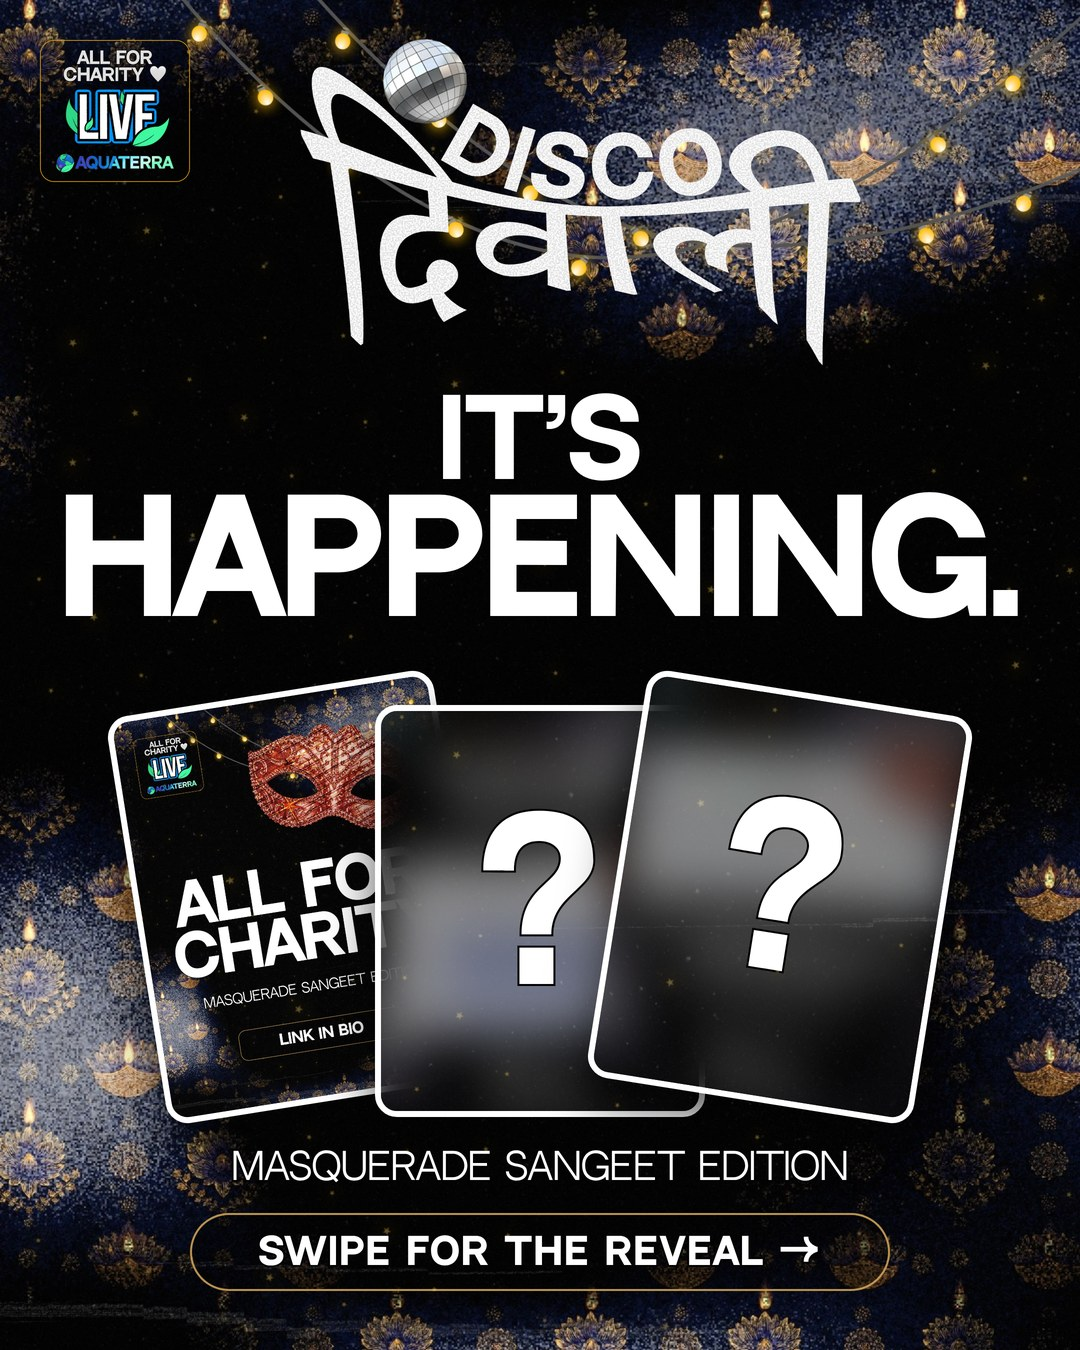
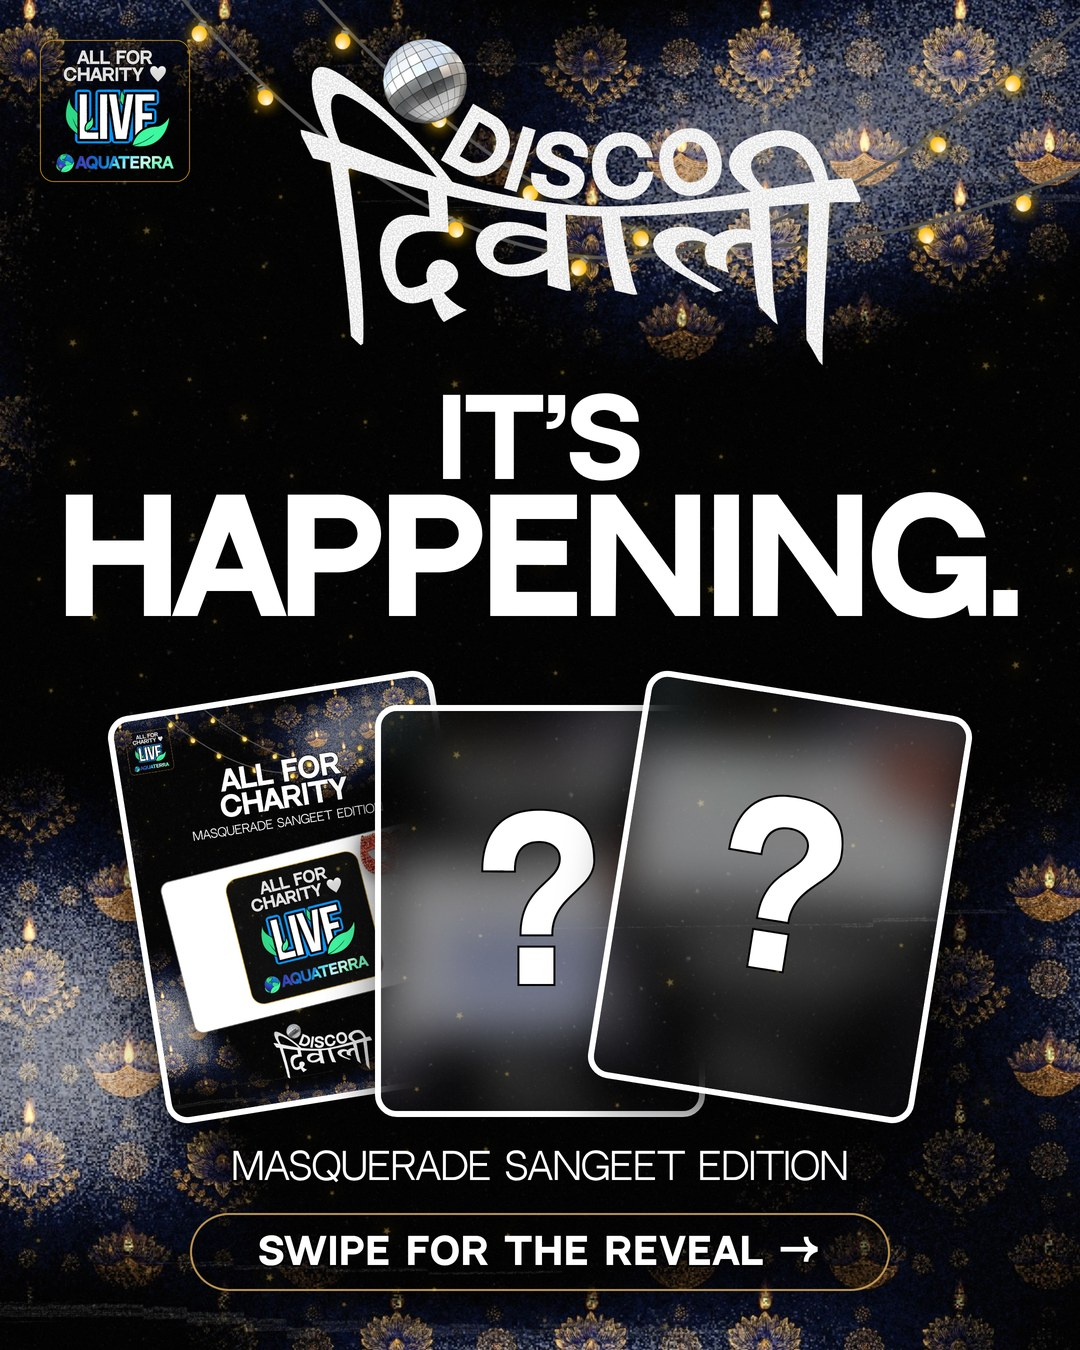
Disco Diwali: ALL FOR CHARITY poster rebuilt to match the date and location posters; cover uses it
Claude-Session: https://claude.ai/code/session_01SvqxkoTEENgXPyjFifmnqB

Changed region(s): [[0.1222, 0.5289, 0.3667, 0.8089]]

diff --git a/scratchpad/dd_charity.py b/scratchpad/dd_charity.py
@@ -1,0 +1,80 @@
+"""DISCO DIWALI ALL FOR CHARITY poster, feed (1080x1350) and story (1080x1920), rebuilt to MATCH the carousel's date and location posters.
+
+Shared skeleton (same numbers as scratchpad/dd_date_reveal.py and dd_location_reveal.py): diya ground with string lights, a small LIVE badge top left, a headline
+block, a big white rounded card tilted -5 degrees with the copper mask lying across its top-right corner, the DISCO DIWALI lockup (with its ball) as a footer mark,
+no pill, no link. Here the headline is ALL FOR CHARITY, the line under it is the edition, and the card holds the LIVE badge art (ALL FOR CHARITY / LIVE / AQUATERRA)
+large, as the visual. Facts: only "All for charity" (the badge) and "Masquerade Sangeet Edition". No date, venue, price or figure (the cover and slides own the rest).
+Run: PYTHONIOENCODING=utf-8 python scratchpad/dd_charity.py"""
+import asyncio, importlib.util, math, os, sys
+ROOT = os.path.dirname(os.path.dirname(os.path.abspath(__file__)))
+sys.path.insert(0, os.path.join(ROOT, "engine"))
+spec = importlib.util.spec_from_file_location("discodiwali", os.path.join(ROOT, "engine", "discodiwali.py"))
+dd = importlib.util.module_from_spec(spec); spec.loader.exec_module(dd)
+B = dd.B
+W = 1080
+OUT = os.path.join(ROOT, "out", "discodiwali", "charity")
+STROKE = "color:#fff;-webkit-text-stroke:4px #000;paint-order:stroke fill;"
+CARD_W, CARD_H, TILT = 880, 520, -5
+
+
+def rot_box(cx, cy, w, h, deg):
+    a = math.radians(abs(deg)); bw = w * math.cos(a) + h * math.sin(a); bh = w * math.sin(a) + h * math.cos(a)
+    return (round(cx - bw / 2), round(cy - bh / 2), round(bw), round(bh))
+
+
+def ground(H):
+    plate = lambda top, extra="": (f'<img data-tag="plate" src="{dd.uri("bg_diya_portrait.jpg")}" style="position:absolute;left:0;top:{top}px;width:{W}px;height:1350px;'
+                                   f'object-fit:cover;z-index:1;{extra}">')
+    p = '<div data-tag="plate" style="position:absolute;inset:0;z-index:0;background:#000"></div>' + plate(0)
+    if H > 1350:
+        p += plate(H - 1350, "transform:scaleY(-1);-webkit-mask-image:linear-gradient(to top,transparent 0%,#000 45%);mask-image:linear-gradient(to top,transparent 0%,#000 45%);")
+    p += (f'<img data-tag="lights" src="{dd.uri("string_lights.png")}" style="position:absolute;left:160px;top:-53px;width:1045px;z-index:5">'
+          f'<img data-tag="plate" src="{dd.uri("sparkles.png")}" style="position:absolute;inset:0;width:{W}px;height:{H}px;object-fit:cover;z-index:30;mix-blend-mode:screen;opacity:.55;pointer-events:none">'
+          f'<img data-tag="plate" src="{dd.uri("grain.png")}" style="position:absolute;inset:0;width:{W}px;height:{H}px;object-fit:cover;z-index:31;mix-blend-mode:screen;opacity:.35;pointer-events:none">')
+    return p
+
+
+def poster(H):
+    story = H > 1350
+    parts, els = [ground(H)], []
+    bx, by, bw = 40, (210 if story else 40), 150
+    parts.append(f'<img data-tag="badge" src="{dd.uri("live_badge.png")}" style="position:absolute;left:{bx}px;top:{by}px;width:{bw}px;z-index:20">'); els.append(("badge", bx, by, bw, round(bw * 1005 / 1061)))
+    size = 112 if story else 92
+    hy = 430 if story else 205
+    def line(tag, txt, top, fsize, weight, h, extra=""):
+        parts.append(f'<div data-tag="{tag}" style="position:absolute;left:0;width:{W}px;top:{top}px;text-align:center;font-family:var(--d);font-weight:{weight};font-size:{fsize}px;line-height:1;'
+                     f'text-transform:uppercase;white-space:nowrap;{STROKE}{extra}z-index:20">{txt}</div>'); els.append((tag, 70, top, 940, h))
+    line("head1", "All for", hy, size, 700, size)
+    line("head2", "charity", hy + round(size * .96), size, 700, size)
+    sy = hy + round(size * .96) * 2 + 20
+    line("sub", "Masquerade Sangeet Edition", sy, 38, 400, 40)
+    # the card: white, tilted, holding the LIVE badge art large and centred
+    ctop = 800 if story else 520
+    cleft = (W - CARD_W) // 2
+    bw2 = 460; bh2 = round(bw2 * 1005 / 1061)                # the badge art is semi-transparent over black: on a white card it washes to grey, so it sits on an OPAQUE black tile
+    inner = (f'<div style="position:absolute;left:{(CARD_W - bw2) // 2}px;top:{(CARD_H - bh2) // 2}px;width:{bw2}px;height:{bh2}px;background:#0a0a0a;border-radius:44px;overflow:hidden">'
+             f'<img src="{dd.uri("live_badge.png")}" style="width:{bw2}px;display:block"></div>')
+    parts.append(f'<div data-tag="card" style="position:absolute;left:{cleft}px;top:{ctop}px;width:{CARD_W}px;height:{CARD_H}px;border-radius:30px;overflow:hidden;background:#fff;z-index:10;'
+                 f'transform:rotate({TILT}deg);box-shadow:0 36px 70px rgba(0,0,0,.6),0 0 0 3px rgba(255,255,255,.55)">{inner}</div>')
+    els.append(("card",) + rot_box(cleft + CARD_W / 2, ctop + CARD_H / 2, CARD_W, CARD_H, TILT))
+    mw = 330; mx, my = 730, ctop - 62
+    parts.append(f'<img data-tag="mask" src="{dd.uri("mask_copper.png")}" style="position:absolute;left:{mx}px;top:{my}px;width:{mw}px;z-index:12;transform:rotate(10deg);'
+                 f'filter:drop-shadow(0 12px 26px rgba(0,0,0,.65))">'); els.append(("mask", mx + 30, my + 40, 276, 196))
+    vw = 400 if story else 330
+    t = vw / 1717; vh = round(991 * t); vx = (W - vw) // 2
+    vy = 1420 if story else H - 64 - vh
+    parts.append(f'<img data-tag="title" src="{dd.uri("title_lockup.png")}" style="position:absolute;left:{round(vx - 265 * t)}px;top:{round(vy - 320 * t)}px;width:{round(2000 * t)}px;z-index:9">')
+    els.append(("title", vx, vy, vw, vh))
+    return "".join(parts), els, vy + vh
+
+
+async def main():
+    os.makedirs(OUT, exist_ok=True)
+    async with B.session():
+        for name, H in (("feed", 1350), ("story", 1920)):
+            inner, els, bottom = poster(H)
+            print(f"[{name}] last element ends at y={bottom} of {H}")
+            await B.render(B.page(W, H, "#000", inner, grain=False), os.path.join(OUT, f"{name}.png"), W, H, elements=els, containers=(), bleed_tags=("plate",), crop_tags=("plate", "card"),
+                           page_bg="#000", collision_ignore=[("mask", "card"), ("card", "badge")])
+    print("charity done ->", OUT)
+asyncio.run(main())

diff --git a/scratchpad/dd_cover.py b/scratchpad/dd_cover.py
@@ -13,7 +13,7 @@ OUT = os.path.join(ROOT, "out", "discodiwali", "cover")
 STROKE = "color:#fff;-webkit-text-stroke:4px #000;paint-order:stroke fill;"
 
 
-SLIDES = [("sample_outputs/disco_diwali_captcha/slide_4.jpg", -9, False), ("sample_outputs/disco_diwali_date/feed.jpg", 0, True), ("sample_outputs/disco_diwali_location/feed.jpg", 9, True)]
+SLIDES = [("sample_outputs/disco_diwali_charity/feed.jpg", -9, False), ("sample_outputs/disco_diwali_date/feed.jpg", 0, True), ("sample_outputs/disco_diwali_location/feed.jpg", 9, True)]
 CW, CH = 330, 412                                            # card size, 4:5
 
 

diff --git a/brain/DISCO_DIWALI.md b/brain/DISCO_DIWALI.md
@@ -93,6 +93,9 @@ Feed 1080x1350 and story 1080x1920 from a user inspo (a headline over a photo wi
 ### Carousel cover (2026-10-19) — `scratchpad/dd_cover.py`, JPEG in `sample_outputs/disco_diwali_cover/`
 Cover for the three-slide set (ALL FOR CHARITY, date reveal, location reveal), v4. History: v1 calm lockup (rejected, "make it fun"), v2 IT'S HAPPENING. over the three real slides fanned like cards (LIKED, but it leaked the date and the location), v3 the cards removed (rejected, "i liked the one before"). v4 keeps v2's composition and hides the secrets: the ALL FOR CHARITY card is shown as is, the date card and the location card are BLURRED (22px, darkened, scaled up so no edge text survives) behind a big "?". Checked by eye at full size: no date, map or text survives. Headline IT'S HAPPENING. is the user's brief expressed as copy, a claim of nothing but the event existing. Lessons: a teaser must be checked for what it LEAKS, not just what it shows; when a user rejects a change they asked for, the thing they liked was the composition, so keep it and fix only the offending element.
 
+### ALL FOR CHARITY poster, matched to the carousel (2026-10-19) — `scratchpad/dd_charity.py`, JPEGs in `sample_outputs/disco_diwali_charity/`
+Feed and story. The earlier charity slide was a block inside `dd_carousel_captcha.py` (a different carousel) and did not match the date and location posters, so it was rebuilt on their skeleton: small LIVE badge top left, a headline (ALL FOR CHARITY, edition line under it), the big white card tilted -5 degrees with the copper mask across its top-right corner, the lockup as a footer mark, no pill, no link. The card holds the LIVE badge art large. Lesson: `live_badge.png` is SEMI-TRANSPARENT over black, so on a white card it washes to grey and its white "ALL FOR CHARITY" text nearly vanishes; it must sit on an opaque black tile. The cover's first card reads this file. Only supplied facts: ALL FOR CHARITY and the edition.
+
 ## 6. Conflicts with CLAUDE.md and how they were resolved (precedence ladder, sec 2)
 - Ground, palette and fonts differ from the AQ house style. Resolved as a format exception, like TerraThon. The format wins inside `discodiwali.py` only.
 - Film grain over a dark ground is photographic texture with a job to do, not a faint patterned wash. `wash_scan` did not flag it.
